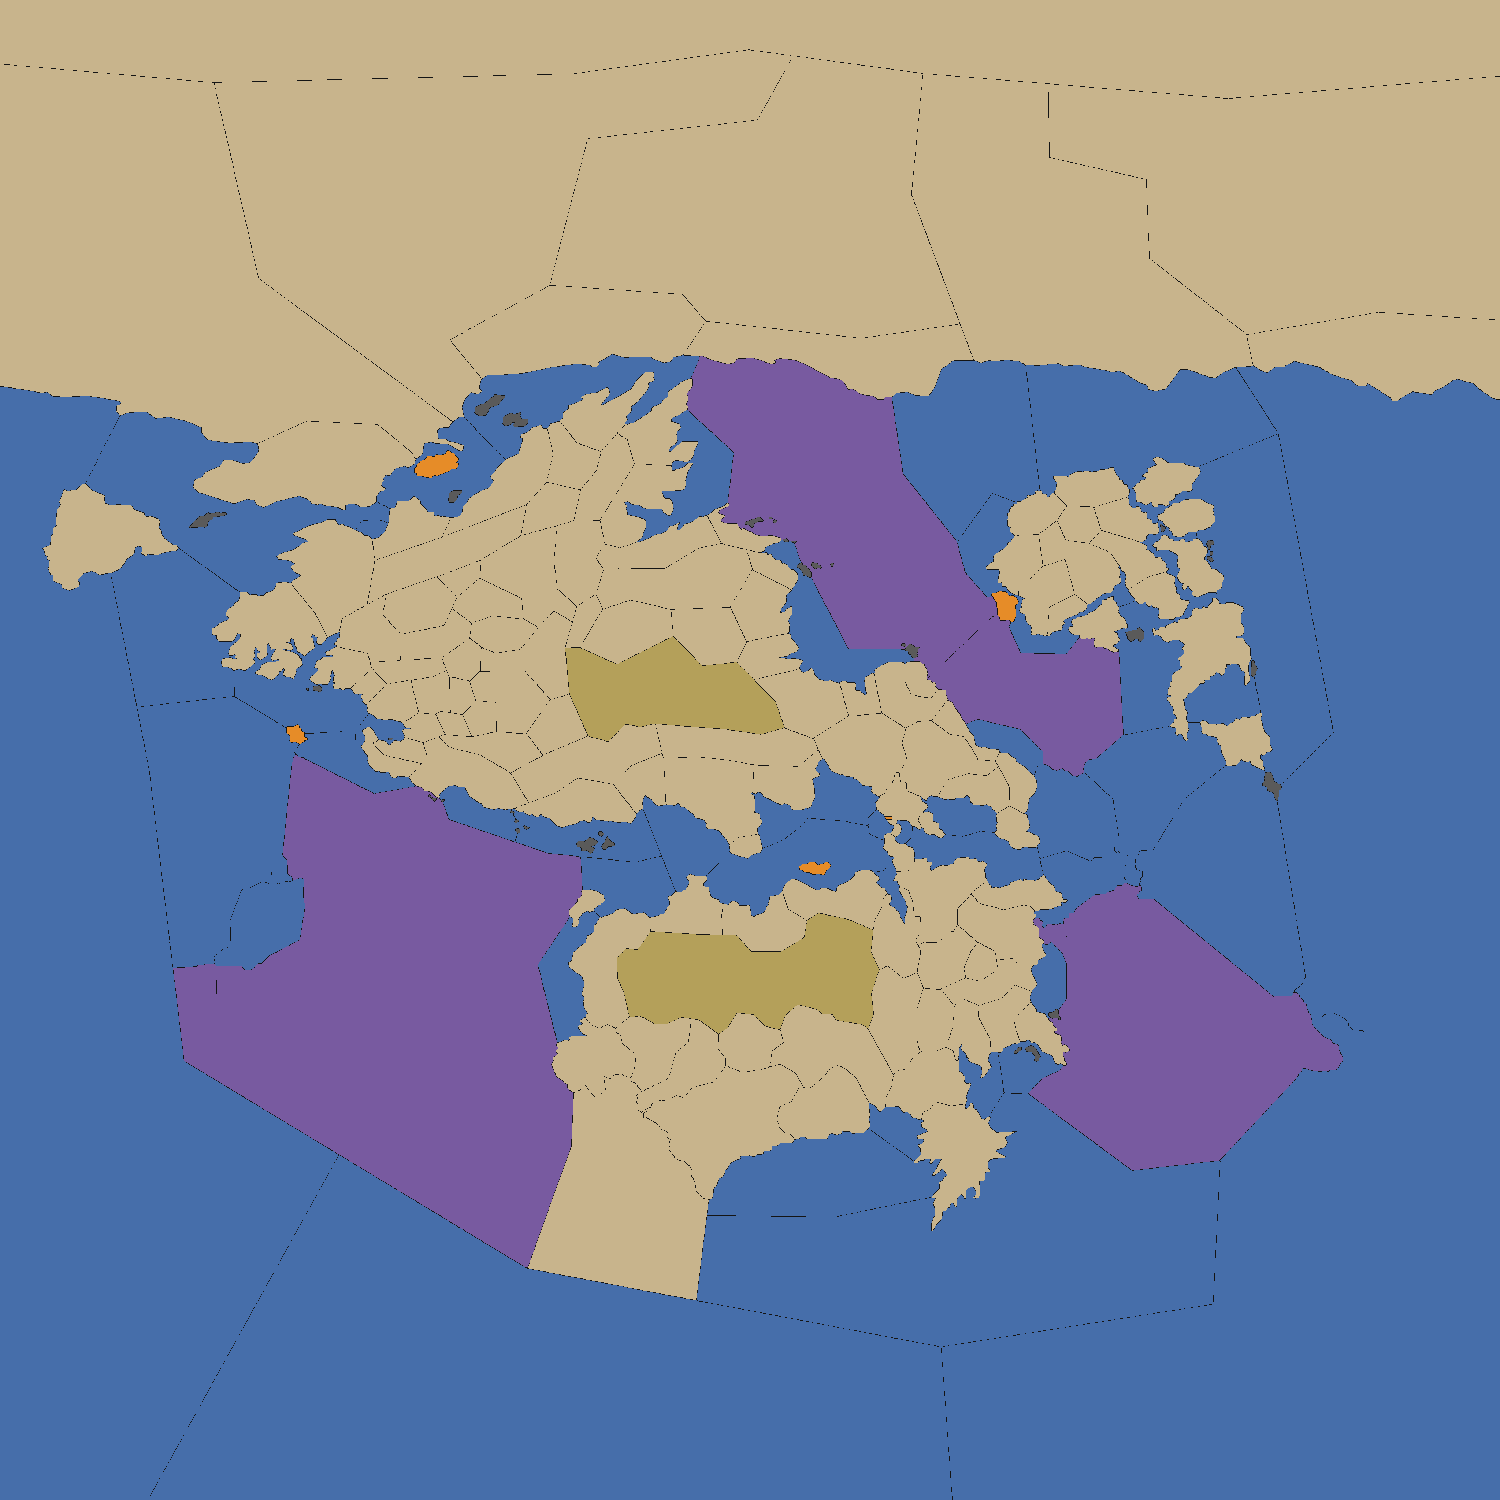
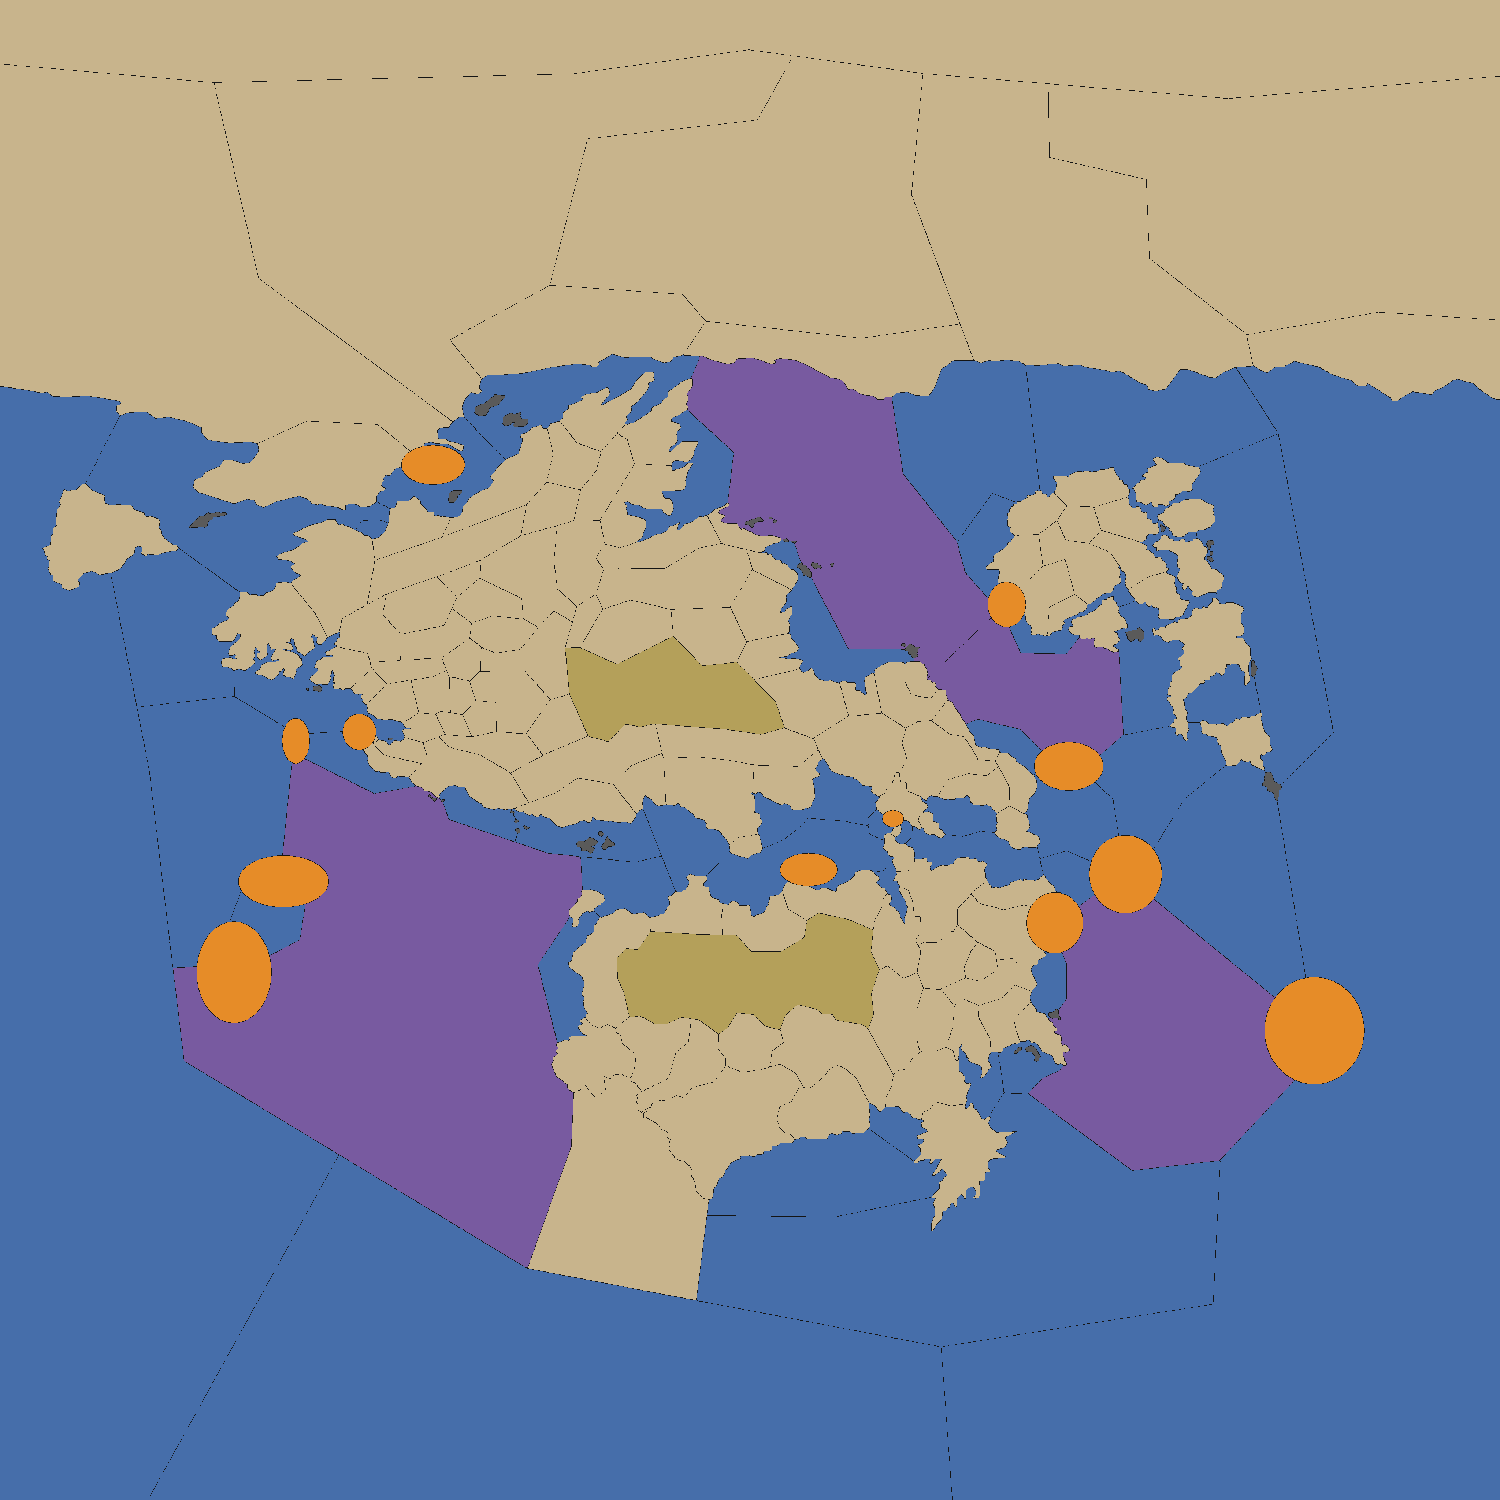
[agent] Update adjacency map + docs; resolve reconstructed province names
- Adopt the regenerated runeterra_adjacency.csv (updated adjacencies) and the
  refreshed map-data.md / classification map.
- The five "missing" provinces were present under diacritic/hyphen spellings
  (Naljaäg, Niverøya Island, Shon-Xan, Vlonqo, Urzeris); all now resolve.
- Update reconstructed-positions.md: nearly all units map to canonical names;
  only M.Cam's "Valar" and YamKiu's shorthand rows remain to confirm.

diff --git a/docs/reconstructed-positions.md b/docs/reconstructed-positions.md
@@ -1,29 +1,28 @@
 # Reconstructed current positions (from the Fall 2 + Winter 2 move log)
 
-Derived by taking each unit's **last move destination** (Fall 2 orders) plus
-**Winter 2 builds**. Kind guessed from province type (sea → Fleet, land → Army)
-unless a build order specified A/F.
+Each unit's current province = its **last move destination** (Fall 2 orders)
+plus **Winter 2 builds**. Kind is provisional (sea → Fleet, land → Army, builds
+per their A/F) — to be confirmed in an A/F pass.
 
-**Legend:** ✅ exact CSV match · 🟡 probable (matched by substring) ·
-❓ NOT in the adjacency CSV — needs the canonical name or the map is missing it.
+**Legend:** ✅ resolved to canonical CSV name · ❓ still needs confirmation.
 
-Fill in the **Discord ID** column (have each player run `/whoami`), fix any 🟡/❓
-rows, then I'll generate `data/positions.json`.
+Fill in the **Discord ID** per player (run `/whoami`), confirm the ❓ rows,
+then I'll generate `data/positions.json`.
 
 ---
 
 ## M.Cam 3.0 — Discord ID: `__________`
-| current province | kind | confidence | from order |
+| current province | kind | status | from order |
 |---|---|---|---|
 | Frostheld | A | ✅ | Fossbarrow → Frostheld |
-| Ghulfrost Mountain | A | 🟡 ("Ghulfrost") | Valar Bay → Ghulfrost |
-| Valar | F? | ❓ (maybe "Valar's Bay", sea) | Gulf of Demacia → Valar |
-| Velorus Islands | A | 🟡 ("Velorus") | Conq sea → Velorus |
+| Ghulfrost Mountain | A | ✅ | Valar Bay → Ghulfrost |
+| Valar's Bay ❓ | F | ❓ confirm ("Valar" → Valar's Bay?) | Gulf of Demacia → Valar |
+| Velorus Islands | A | ✅ | Conq sea → Velorus |
 | Kilgrove | A | ✅ | Kilgrove h |
-| The Graygate | A | 🟡 ("Graygate") | Graygate h |
+| The Graygate | A | ✅ | Graygate h |
 
 ## notabeverage [IMPR] — Discord ID: `__________`
-| current province | kind | confidence | from order |
+| current province | kind | status | from order |
 |---|---|---|---|
 | Nockmirch | A | ✅ | Plains of Valoran 3 → Nockmirch |
 | Tokogol | A | ✅ | Ironspike Mountains → Tokogol |
@@ -35,48 +34,49 @@ rows, then I'll generate `data/positions.json`.
 | Immortal Bastion | A | ✅ | Winter build: A Immortal Bastion |
 
 ## Big Master Kusho — Discord ID: `__________`
-| current province | kind | confidence | from order |
+| current province | kind | status | from order |
 |---|---|---|---|
 | Basilich | A | ✅ | Ionia → Basilich |
 | Zhyun | A | ✅ | Vastaya → Zhyun |
-| Shon Xan | ? | ❓ not in CSV | Puboe → Shon Xan |
-| Vlonqu | ? | ❓ not in CSV | Dragonspine → Vlonqu |
+| Shon-Xan | A | ✅ | Puboe → Shon-Xan |
+| Vlonqo | A | ✅ | Dragonspine → Vlonqo |
 | Ionia City | A | ✅ | Tevasa → Ionia City |
-| Raikkon | F? | ❓ (maybe "Raikkon Sea", sea) | Noxus → Raikkon |
+| Raikkon Sea | F | ✅ | Noxus → Raikkon |
 | Placidium of Navori | A | ✅ | Winter build: A |
 | Temple of Pallas | F | ✅ | Winter build: F |
 | Wuju | F | ✅ | Winter build: F |
 
 ## YAMASHITA [SLAY] — Discord ID: `__________`
-| current province | kind | confidence | from order |
+| current province | kind | status | from order |
 |---|---|---|---|
-| Niveroya Island | F? | ❓ not in CSV | North Tracker's Sea → Niveroya Island |
+| Niverøya Island | F | ✅ (kind TBD) | North Tracker's Sea → Niverøya Island |
 | Rakelstake | A | ✅ | Stormpeaks → Rakelstake |
 | East Fang | A | ✅ | Eastfang h |
 | Trinity Mountains | A | ✅ | Trinity Mountains h |
-| Naljaag | A? | ❓ not in CSV | Naljaag s → Ironspike Mountains (stays) |
+| Naljaäg | A | ✅ | Naljaäg s → Ironspike (stays) |
 | Ironspike Mountains | A | ✅ | Ice Spine Mountains → Ironspike Mountains |
 | Quchar | A | ✅ | Winter build: Quchar (land) |
-| Frostguard Citadel | A | 🟡 ("Frostguard") | Winter build: Frostguard (land) |
+| Frostguard Citadel | A | ✅ | Winter build: Frostguard (land) |
 
 ## YamKiu — Discord ID: `__________`
-_Heavily abbreviated — most rows need confirmation._
-| current province | kind | confidence | from order |
+_Heavily abbreviated — the ❓ move rows need YamKiu to disambiguate._
+| current province | kind | status | from order |
 |---|---|---|---|
-| Plains (which?) | A | ❓ ambiguous (7 "…Plains") | rock bay → plains |
-| Aurma | F? | ❓ ("aruma" typo?) | west cent sea → aruma |
-| The Great Sai (1/2/3?) | A | ❓ subregion | saj farj → great sai |
+| Rokrund Plains ❓ | A | ❓ ("rock bay → plains") | rock bay → plains |
+| Aurma ❓ | F | ❓ ("aruma" → Aurma?) | west cent sea → aruma |
+| The Great Sai 1/2/3 ❓ | A | ❓ which subregion | saj farj → great sai |
 | Kalduga | A | ✅ | kald stay |
-| Gate (which?) | ? | ❓ ambiguous | sai → gate |
-| Sai (which?) | ? | ❓ ambiguous | south → sai |
-| The City of Gardens | F | 🟡 | Winter build: boat in gardens |
-| The Sun Disc | A | 🟡 | Winter build: ground in sun |
-| Uzuris | F? | ❓ not in CSV | Winter build: boat in uzuris |
+| ❓ ("gate") | ? | ❓ which province | sai → gate |
+| ❓ ("sai") | ? | ❓ which province | south → sai |
+| The City of Gardens | F | ✅ | Winter build: boat in gardens |
+| The Sun Disc | A | ✅ | Winter build: ground in sun |
+| Urzeris | F | ✅ | Winter build: boat in uzuris |
 
 ---
 
-## Names used by players that are NOT in the adjacency CSV
-These need either a canonical spelling or a fix to `runeterra_adjacency.csv`:
-`Valar` · `Shon Xan` · `Vlonqu` · `Raikkon` (vs `Raikkon Sea`) ·
-`Niveroya Island` · `Naljaag` · `Aruma` (vs `Aurma`?) · `Uzuris`/`Uzeris` ·
-and YamKiu's `rock bay` / `plains` / `gate` / `sai` / `south` shorthands.
+## Still to confirm
+1. **Discord IDs** for all 6 players (via `/whoami`).
+2. **M.Cam:** is "Valar" the sea province `Valar's Bay`, or a distinct land province?
+3. **YamKiu:** disambiguate `rock bay → plains`, `west cent sea → aruma`,
+   `saj farj → great sai` (which subregion), `sai → gate`, `south → sai`.
+4. **A/F kinds** for all units (provisional above) — dedicated pass later.

diff --git a/docs/map-data.md b/docs/map-data.md
@@ -47,12 +47,18 @@ neighbour, in turn, lists every sub-space. For the sea specials the sub-spaces a
 mutually coastal; the two land specials (Valoran, Great Sai) are land-locked, so their
 sub-spaces carry no coastal links.
 
-## Canals
+## Canals / functional territories
 
-A canal is a land province circled by an ellipse/circle in the Borders layer. The 12:
-Bilgewater Bay, Calais, Dawnhold, Fae'lor, Fallgren, Piltover, Shadow Isles, Tereshni,
-The Serpentine Delta, Ursine Lands, Velorus Islands, Zuretta Archipelago.
-(The small circles drawn around the special sub-space numbers were excluded.)
+A canal is a province circled by an ellipse/circle. The circle is treated as **its own
+functional territory spanning the whole ellipse** — any border lines drawn through it are
+ignored, and the territory is adjacent to everything the circle touches (so it acts as a
+connector). The 12: Bilgewater Bay, Calais, Dawnhold, Fae'lor, Fallgren, Piltover,
+Shadow Isles, Tereshni, The Serpentine Delta, Ursine Lands, Velorus Islands,
+Zuretta Archipelago. (The small circles drawn around the special sub-space numbers were
+excluded.)
+
+> Note on names: several provinces use diacritics exactly as drawn in the SVG —
+> e.g. Naljaäg, Niverøya Island, Vlonqo, Urzeris — so plain-ASCII searches won't match.
 
 ## How it was built
 
@@ -81,7 +87,7 @@ purple = special seas, olive = special lands, orange = canals, grey = impassable
 - **Open-ocean boundaries** between sea provinces were completed automatically where you
   left gaps; in a few wide-open stretches the exact dividing line is the algorithm's best
   guess at the midline rather than a line you drew.
-- **The Serpentine Delta** is the one genuinely ambiguous marker: its text label sits in
-  open water, so it's treated as the circled delta-island canal (land) adjacent to
-  Bilgewater Pass, Harelport Bay, Amarantine Sea and The Jaws. Double-check it matches
-  your intent.
+- **Functional territories.** The 12 circled provinces are each treated as one whole-circle
+  connector territory (internal lines ignored), so they bridge the regions around them —
+  The Serpentine Delta, for instance, now links Bilgewater Pass, the Amarantine Sea,
+  Harelport, Harelport Bay, Mudtown and The Jaws.
